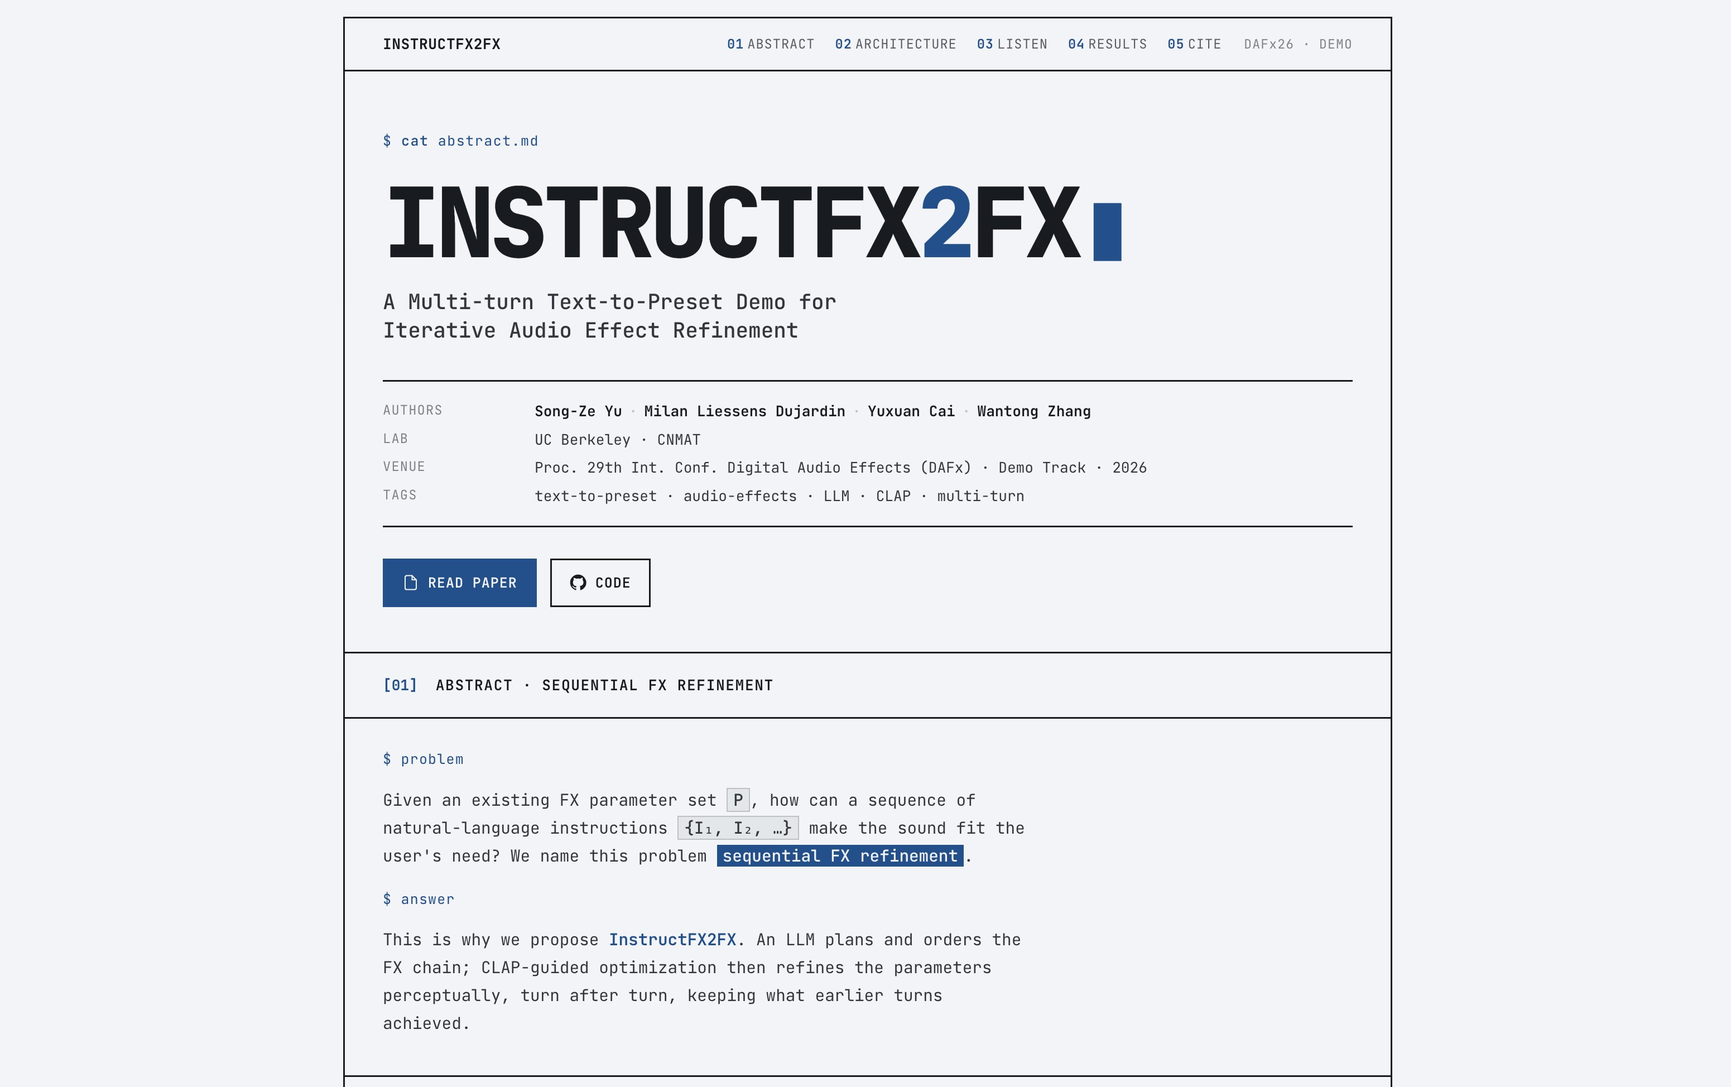
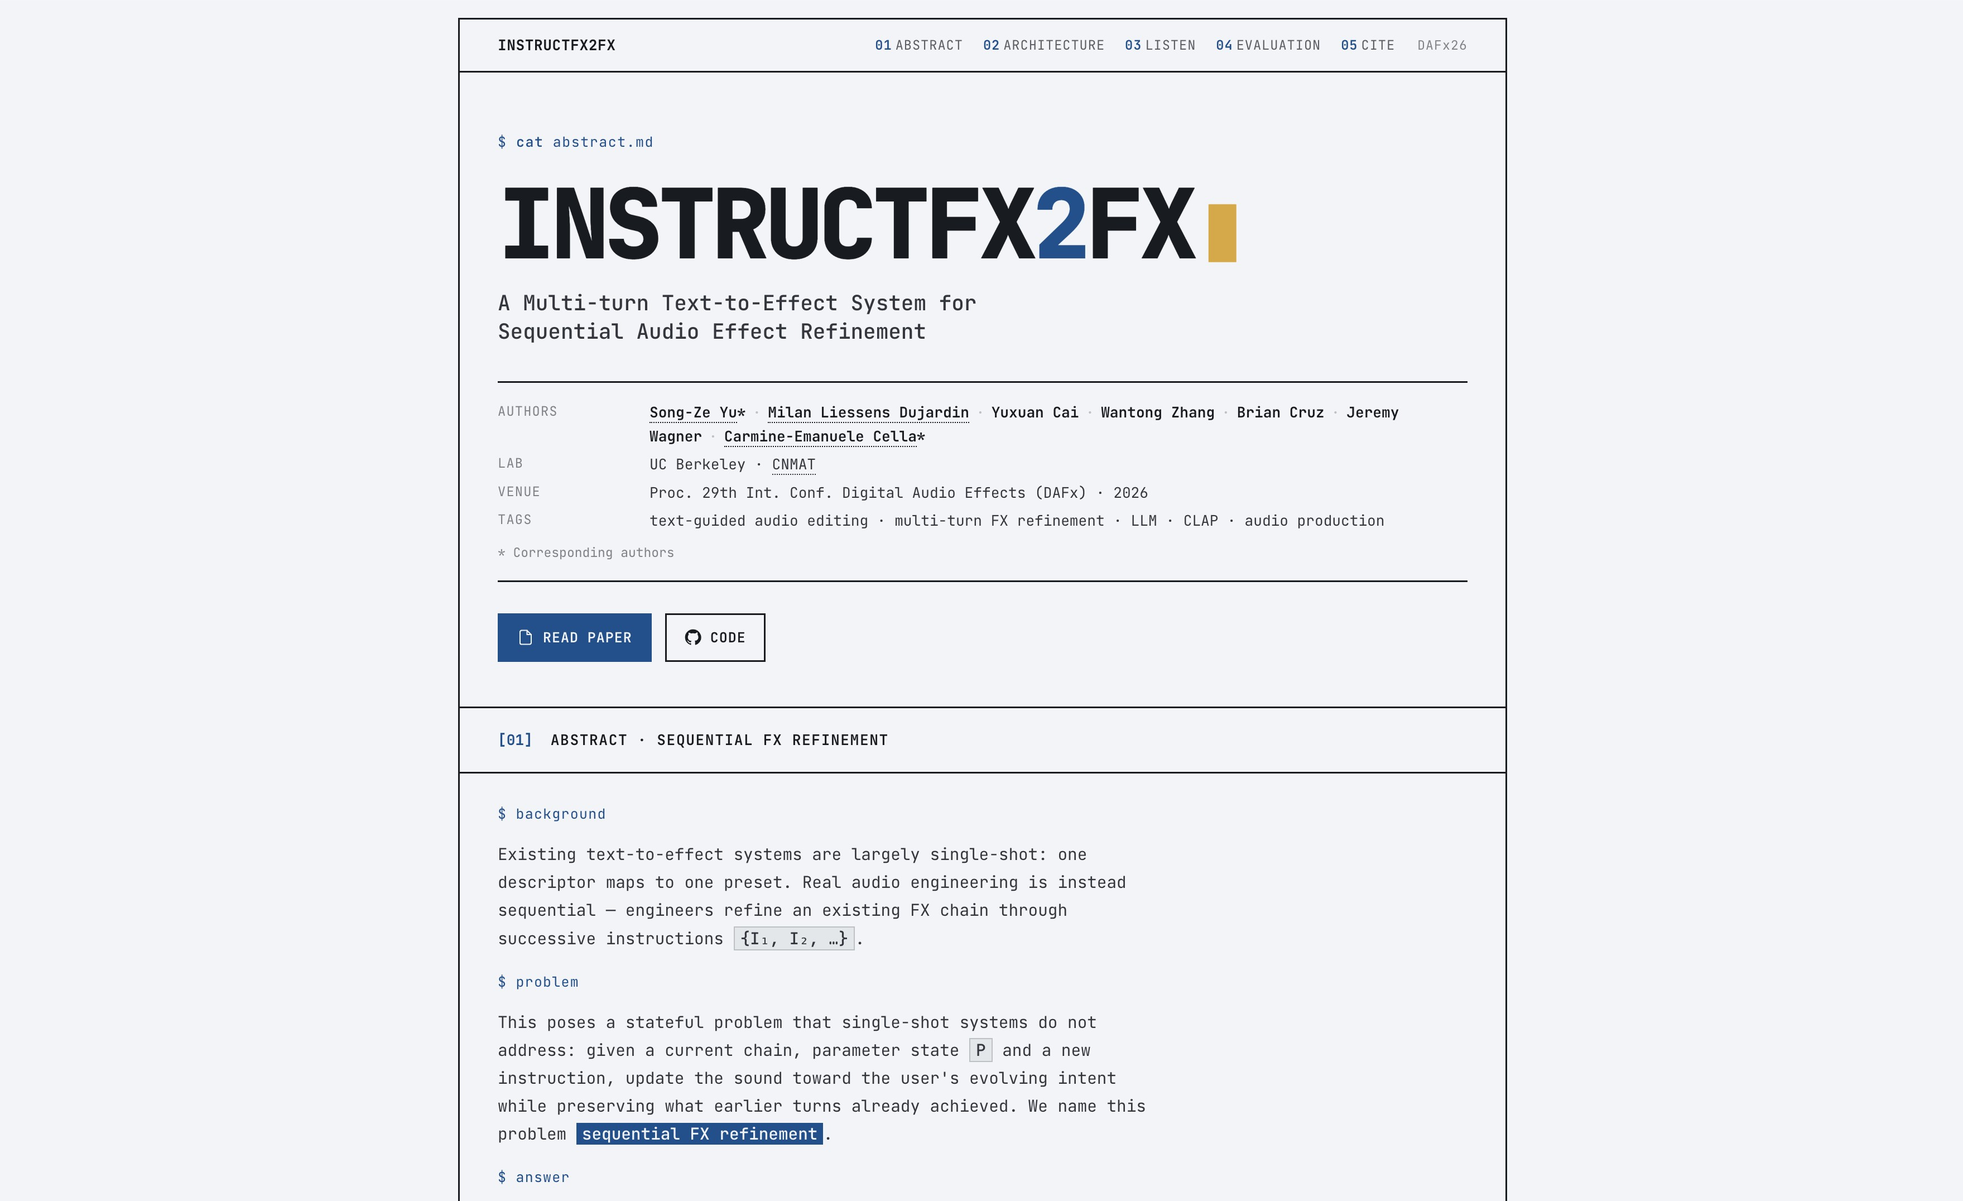
feat: camera-ready README

diff --git a/README.md b/README.md
@@ -2,24 +2,22 @@
 
 # InstructFX2FX
 
-### A Multi-Turn Text-to-Effect System for Sequential Audio Effect Refinement 
+### A Multi-Turn Text-to-Effect System for Sequential Audio Effect Refinement
 
 <span style="white-space:nowrap;">Song-Ze Yu</span>&nbsp;·
 <span style="white-space:nowrap;">Milan Liessens Dujardin</span>&nbsp;·
 <span style="white-space:nowrap;">Yuxuan Cai</span>&nbsp;·
-<span style="white-space:nowrap;">Wantong Zhang</span>&
-nbsp;·
-<span style="white-space:nowrap;">Brian Cruz</span>&
-nbsp;·
-<span style="white-space:nowrap;">Jeremy Wagner</span>&
-nbsp;·
+<span style="white-space:nowrap;">Wantong Zhang</span>&nbsp;·
+<span style="white-space:nowrap;">Brian Cruz</span>&nbsp;·
+<span style="white-space:nowrap;">Jeremy Wagner</span>&nbsp;·
 <span style="white-space:nowrap;">Carmine-Emanuele Cella</span>
 
 <sub>Center for New Music and Audio Technologies (CNMAT) · University of California, Berkeley</sub>
 
 <br/>
 
-[![arXiv](https://img.shields.io/badge/arXiv-2606.22005-b31b1b.svg?logo=arxiv&logoColor=white)](https://arxiv.org/abs/2606.22005v2)
+[![Paper PDF](https://img.shields.io/badge/Paper-camera--ready-red.svg)](presentation/demo/assets/camera-ready.pdf)
+[![arXiv](https://img.shields.io/badge/arXiv-2606.22005-b31b1b.svg?logo=arxiv&logoColor=white)](https://arxiv.org/abs/2606.22005)
 [![DAFx 2026](https://img.shields.io/badge/DAFx_2026-Demo_Track-success.svg)](https://dafx26.mit.edu/)
 [![Live demo](https://img.shields.io/badge/Live_demo-instructfx2fx.vaclis.net-0071e3.svg)](https://instructfx2fx.vaclis.net/)
 [![Python 3.10+](https://img.shields.io/badge/Python-3.10+-blue.svg)](https://www.python.org/)
@@ -28,87 +26,110 @@ nbsp;·
 
 <p align="center">
   <a href="https://instructfx2fx.vaclis.net/">
-    <img src="https://raw.githubusercontent.com/vaclisinc/InstructFX2FX/32e0b65052e5f163f245eeca8f989803416f3ce0/presentation/demo/assets/cover.jpg" alt="InstructFX2FX demo preview" width="100%">
+    <img src="presentation/demo/assets/cover.jpg" alt="InstructFX2FX demo preview" width="100%">
   </a>
 </p>
 
 ---
 
-> **TL;DR.** Real audio mixing is iterative — a sequence of small corrections, not one descriptor. **InstructFX2FX** treats this as *sequential FX refinement*: an LLM plans and decides the FX chain and proposes the initial parameter state, then CLAP-guided optimization refines it perceptually, turn after turn — gradient descent for differentiable effects (EQ, reverb) and Bayesian optimization for the rest. On SocialFX-derived descriptor pairs, CLAP-guided refinement achieves lower DSP-feature MMD than an LLM+LLM initialize-then-reprompt baseline on 9 of 10 pairs.
+> **TL;DR.** Audio effect design is iterative, not one-shot. **InstructFX2FX** treats text-guided audio processing as **sequential FX refinement**: each new natural-language instruction updates an existing effect chain and parameter state while preserving what previous turns already achieved. An LLM acts as the planner and initializer; CLAP-guided optimization acts as the listener that refines parameters through gradient descent for differentiable effects and Bayesian optimization for non-differentiable Pedalboard effects.
 
----
+## Highlights
+
+| | |
+|---|---|
+| **Problem** | Stateful, multi-turn text-to-effect editing instead of independent text-to-preset generation |
+| **Method** | LLM effect planning + LLM parameter initialization + CLAP-guided refinement over persistent session state |
+| **Routing** | Initialize-only, reuse-only, or mixed reuse-and-initialize depending on what the session already contains |
+| **Backends** | DASP gradient descent for EQ/reverb; Pedalboard Bayesian optimization for compressor, distortion, delay, pitch shift, and bitcrush |
+| **Demo** | Human-in-the-loop auditioning with dry/result A/B and optimization checkpoint scrubbing |
+| **Result** | Lower DSP-feature MMD than an LLM+LLM initialize-then-reprompt baseline on 9 of 10 SocialFX-derived descriptor pairs |
 
 ## Sequential FX Refinement
 
-We study the multi-turn setting we call **sequential FX refinement**:
+Single-shot text-to-effect systems map one prompt to one preset:
 
-> Given an existing FX parameter set **P** and a sequence of natural-language instructions **{I₁, I₂, …}**, update the effect parameters so the rendered audio tracks the user's evolving intent while preserving relevant structure from the previous state.
+```text
+P = g(x, I)
+```
 
-InstructFX2FX is a hybrid: an LLM plans and orders the FX chain and proposes initial parameters; CLAP-guided optimization then refines them perceptually, turn after turn — gradient descent for differentiable effects (EQ, reverb) and Bayesian optimization for the rest.
+InstructFX2FX instead models audio effect editing as a stateful update:
+
+```text
+(C_t, P_t) = f(x, C_{t-1}, P_{t-1}, I_t, H_{t-1})
+```
+
+where `x` is the dry audio, `C_t` is the current effect chain, `P_t` is the current parameter state, `I_t` is the latest instruction, and `H_{t-1}` is the prior instruction history. Each turn should move the rendered audio toward the new target while keeping useful structure from earlier turns.
 
 ## Architecture
 
-3-layer pipeline orchestrated by `src/pipeline/orchestrator.py`:
+The 3-layer pipeline is orchestrated by [`src/pipeline/orchestrator.py`](src/pipeline/orchestrator.py):
 
+```text
+Instruction + dry audio + session state
+        |
+        v
++-------------------------------+
+| Layer 1: FX Selector Agent    |  OpenRouter tool-calling LLM
+| src/agents/fx_selector.py     |  -> ordered FX chain
++---------------+---------------+
+                |
+                v
++-------------------------------+
+| Layer 2: Parser / Router      |  initialize, reuse, or mixed routing
+| src/agents/parser.py          |  -> assembled params
++---------------+---------------+
+                |
+      +---------+---------+
+      v                   v
++------------+      +----------------+
+| Layer 3A   |      | Layer 3B       |
+| DASP GD    | ---> | Pedalboard BO  |
+| eq, rev    |audio | comp/dist/etc. |
++------------+      +----------------+
 ```
-Instruction ("make it brighter")  +  session state (P, history)
-        │
-        ▼
-┌──────────────────────────────┐
-│  Layer 1: FX Selector Agent  │  GPT-4o via OpenRouter tool-calling
-│  src/agents/fx_selector.py   │  → ordered FX chain ["eq", "rev"]
-└──────────────┬───────────────┘
-               │
-               ▼
-┌──────────────────────────────┐
-│  Layer 2: Parser / Router    │  routes the update (3 modes, below)
-│  src/agents/parser.py        │  LLM-init missing params, then optimize
-└──────────────┬───────────────┘
-               │
-     ┌─────────┴─────────┐
-     ▼                   ▼
-┌──────────┐      ┌──────────────┐
-│ Layer 3A │      │  Layer 3B    │
-│ DASP GD  │      │ Pedalboard   │
-│ (eq,rev) │─────▶│ Bayesian BO  │
-│ trainer  │audio │ fxsearcher   │
-└──────────┘      └──────────────┘
-```
 
-**Layer 1 — FX Selector Agent**: Each available FX is an OpenAI tool. The LLM calls them in signal-chain order.
+**Layer 1 - FX Selector Agent:** each supported effect is exposed as a callable tool. The LLM selects new effects in signal-chain order and avoids reselecting effects already present in the session.
 
-**Layer 2 — Parser / Router**: Each instruction takes one of three modes, based on session state:
+**Layer 2 - Parser / Router:** the router compares the requested chain against the current session state:
 
 | Mode | Session state | Action |
 |------|---------------|--------|
-| **Initialize** | no FX exist yet | LLM-initialize a fresh chain (no optimization this turn) |
-| **Extend** | some FX exist | LLM-initialize the new effects, merge with existing, then optimize all |
-| **Reuse & optimize** | all FX already exist | re-optimize from the existing params, in place |
+| **Initialize-only** | none of the requested FX exist | LLM-initialize a fresh chain and render it once |
+| **Reuse-only** | all requested FX already exist | refine existing parameters in place |
+| **Mixed** | some requested FX exist, some are new | initialize missing effects, merge with existing params, then refine the chain |
 
-**Layer 3 — Dual-track optimization** (sequential):
-- 3A: DASP effects (`eq`, `rev`) → CLAP gradient descent via `move_in_CLAP()`
-- 3B: Pedalboard effects (`comp`, `dist`, `delay`, `pitchshift`, `bitcrush`) → Bayesian BO via `fxsearcher()`
-- DASP output audio feeds as input to the Pedalboard stage
+**Layer 3 - CLAP-guided optimization:** DASP effects are optimized first, and their rendered audio feeds the Pedalboard stage. The optimization layer supports semantic similarity, directional, and guided semantic losses.
 
-**Session** (`src/session/session.py`): Accumulates params across instructions for multi-turn interaction. This persistent state is what makes refinement iterative.
+**Session state:** [`src/session/session.py`](src/session/session.py) stores the current parameters and prompt history so every turn is interpreted relative to the current sound.
 
 ## Available Effects
 
-| Canonical Name | Backend | Optimization | Params |
-|---------------|---------|-------------|--------|
-| `eq` | DASP | Gradient Descent | 18 (6-band parametric EQ) |
-| `rev` | DASP | Gradient Descent | 25 (noise-shaped reverb) |
-| `comp` | Pedalboard | Bayesian BO | Compressor |
-| `dist` | Pedalboard | Bayesian BO | Distortion |
-| `delay` | Pedalboard | Bayesian BO | Delay |
-| `pitchshift` | Pedalboard | Bayesian BO | Pitch Shift |
-| `bitcrush` | Pedalboard | Bayesian BO | Bitcrusher |
+| Canonical name | Backend | Optimization | Notes |
+|---------------|---------|--------------|-------|
+| `eq` | DASP | Gradient descent | 6-band parametric EQ |
+| `rev` | DASP | Gradient descent | Noise-shaped reverb |
+| `comp` | Pedalboard | Bayesian optimization | Compressor |
+| `dist` | Pedalboard | Bayesian optimization | Distortion |
+| `delay` | Pedalboard | Bayesian optimization | Delay |
+| `pitchshift` | Pedalboard | Bayesian optimization | Pitch shift |
+| `bitcrush` | Pedalboard | Bayesian optimization | Bitcrusher |
 
-## Results
+## Evaluation Summary
 
-CLAP-guided refinement lowers target-directed MMD on **9 of 10** directed descriptor pairs versus an LLM-only re-prompting baseline (0.45 → 0.34, a 24% reduction). Listen to the gradient-descent sessions, scrub the optimization trajectories, and A/B dry vs. result on the [live demo](https://instructfx2fx.vaclis.net/).
+The camera-ready paper reports a preliminary evaluation on SocialFX-derived EQ descriptors.
+
+| Experiment | Setup | Result |
+|------------|-------|--------|
+| **Exp. 1: Sequential MMD** | 10 descriptor transitions such as `warm -> bright` and `harsh -> soft`; piano and violin audio; MMD over 35-dimensional DSP features | InstructFX2FX improves over the LLM+LLM initialize-then-reprompt baseline on 9 of 10 pairs |
+| **Exp. 2: MMD trajectory** | Tracks MMD to the previous descriptor and the new target during gradient descent | In 9 of 10 descriptor pairs, optimization moves toward the new target without increasing MMD to the previous descriptor |
+| **Exp. 3: LLM initialization ablation** | Starts from stochastic LLM initializations, then refines toward the same descriptor | DSP-feature MMD improves from 0.752 to 0.674; Fx-Encoder++ MMD improves from 0.752 to 0.643; 7 of 8 words improve |
+
+The live demo includes trajectory plots and audio checkpoints so the user can hear gradual parameter movement, not just the final output.
 
 ## Installation
+
+Use the repo-local virtual environment:
 
 ```bash
 python -m venv .venv
@@ -118,104 +139,137 @@ pip install -r requirements.txt
 
 Create a `.env` file in the project root:
 
-```
+```env
 OPENROUTER_API_KEY=your_api_key
 ```
 
+CLAP weights are downloaded on first use.
+
 ## Quick Start
 
-Run the multi-turn pipeline end-to-end on the bundled audio (`dry_audio/piano/piano.wav`). Set `OPENROUTER_API_KEY` in `.env` first; CLAP weights auto-download on first run:
+Run the multi-turn integration script on bundled dry audio:
 
 ```bash
+source .venv/bin/activate
 python tests/test_pipeline.py
 ```
 
-It drives a few multi-turn instruction sequences through the orchestrator and writes the rendered audio and parameters for each turn to `tests/outputs/`.
+The script drives realistic multi-turn sessions through the orchestrator and writes rendered audio plus parameter JSON to `tests/outputs/`.
 
-The core API is one call per instruction, with `Session` carrying state across turns:
+The core Python API is one call per instruction, with `Session` carrying state across turns:
 
 ```python
+from embeddings.clap import CLAPWrapper
+from llms.llmclient import LLMClient
+from pipeline.orchestrator import Orchestrator
+from session.session import Session
+
+llm = LLMClient()
+clap = CLAPWrapper(device="cpu")
 orch = Orchestrator(llm, clap, device="cpu")
-session = Session(available_fx=["eq", "comp", "rev", "dist"])
+session = Session(available_fx=["eq", "comp", "rev", "dist", "delay", "pitchshift", "bitcrush"])
 
-orch.run("bright", session, audio)        # turn 1
-orch.run("add warmth", session, audio)    # turn 2 — Session remembers turn 1
+result_1 = orch.run("bright", session, audio)
+result_2 = orch.run("add warmth", session, audio)
 ```
 
-See [`tests/test_pipeline.py`](tests/test_pipeline.py) for the full runnable example (audio loading and model setup).
-
-## Project Structure
-
-```
-src/
-├── agents/
-│   ├── fx_selector.py      # Layer 1: LLM FX selection via tool calls
-│   └── parser.py            # Layer 2: session routing + optimization dispatch
-├── configurations/
-│   └── config.py            # Config dataclass, enums (LossFunction, OptimizationMethod)
-├── effects/
-│   └── fx.py                # Effect adapters, FXChainFactory, param ranges
-├── embeddings/
-│   └── clap.py              # CLAP wrapper (audio/text embeddings)
-├── FxSearcher/
-│   └── fxsearcher.py        # Bayesian optimization for Pedalboard FX
-├── llms/
-│   └── llmclient.py         # OpenRouter GPT-4o client
-├── metrics/                 # Audio quality and CLAP similarity metrics
-├── pipeline/
-│   └── orchestrator.py      # Main entry point
-├── prompts/
-│   ├── prompt.py            # PromptFactory for DASP/Pedalboard init prompts
-│   └── instruction.py       # Instruction templates
-├── session/
-│   └── session.py           # Session state management
-├── training/
-│   ├── trainer.py           # move_in_CLAP() — gradient descent in CLAP space
-│   ├── loss.py              # Loss functions (directional, semantic similarity, guided)
-│   └── parameterengine.py   # Parameter tensor ↔ dict conversion
-├── utilities/
-│   ├── audio_processing.py
-│   ├── fx_processing.py     # fx_initial_params_to_tensor, fx_tensor_to_params_dict
-│   └── text_processing.py   # JSON extraction from LLM output
-└── visualization/
-    └── plotting.py
-dry_audio/                   # Test audio files (piano, violin, oboe)
-```
+See [`tests/test_pipeline.py`](tests/test_pipeline.py) for a complete runnable example with audio loading, model setup, output validation, and file export.
 
 ## Demo
 
-**Live site** ([instructfx2fx.vaclis.net](https://instructfx2fx.vaclis.net/)) — a static page with the waveform players, dry/result A/B, and gradient-descent trajectory scrubbing. Source lives in `presentation/demo/` (plain HTML/CSS/JS, no build step):
+**Live paper demo:** [`instructfx2fx.vaclis.net`](https://instructfx2fx.vaclis.net/) hosts the DAFx26 demo page with three gradient-descent sessions:
+
+- `A fading dream`
+- `From the chapel to the cosmos`
+- `Underwater`
+
+Each session supports dry/result A/B playback and checkpoint scrubbing across saved optimization snapshots. The static demo source lives in [`presentation/demo/`](presentation/demo/) and has no build step:
 
 ```bash
 cd presentation/demo
-python -m http.server          # then open http://localhost:8000
+python -m http.server
 ```
 
-**Interactive app** — separate React frontend + FastAPI backend:
+Then open `http://localhost:8000`.
+
+**Interactive app prototype:** the repo also includes a React frontend and FastAPI backend for running sessions locally:
 
 ```bash
-# frontend
-cd apps/web_frontend && npm run dev
-
 # backend
 source .venv/bin/activate
 uvicorn apps.web_api.app.main:app --reload
+
+# frontend
+cd apps/web_frontend
+npm install
+npm run dev
 ```
+
+The API exposes sessions, audio uploads, run submission, run polling, FX metadata, and checkpoint selection.
+
+## Project Structure
+
+```text
+src/
+├── agents/
+│   ├── fx_selector.py      # Layer 1: LLM FX selection via tool calls
+│   └── parser.py           # Layer 2: session routing + optimization dispatch
+├── configurations/
+│   └── config.py           # Config dataclass and enums
+├── effects/
+│   └── fx.py               # Effect adapters, FXChainFactory, parameter ranges
+├── embeddings/
+│   └── clap.py             # CLAP audio/text embedding wrapper
+├── FxSearcher/
+│   └── fxsearcher.py       # Bayesian optimization for Pedalboard FX
+├── llms/
+│   └── llmclient.py        # OpenRouter client
+├── metrics/                # DSP, CLAP, deep embedding, and MMD metrics
+├── pipeline/
+│   └── orchestrator.py     # Main entry point: Orchestrator.run()
+├── prompts/
+│   ├── prompt.py           # PromptFactory for DASP/Pedalboard initialization
+│   └── instruction.py      # Instruction templates
+├── runners/
+│   └── runners.py          # Experiment/demo runners
+├── session/
+│   └── session.py          # Persistent session state
+├── training/
+│   ├── trainer.py          # move_in_CLAP()
+│   ├── loss.py             # Semantic, directional, and guided losses
+│   └── parameterengine.py  # Parameter normalization utilities
+├── utilities/
+│   ├── audio_processing.py
+│   ├── fx_processing.py
+│   └── text_processing.py
+└── visualization/
+    └── plotting.py
+
+apps/
+├── web_api/                # FastAPI local app backend
+└── web_frontend/           # React/Vite local app frontend
+
+presentation/demo/          # Static DAFx26 paper demo and assets
+dry_audio/                  # Test audio files
+tests/                      # End-to-end pipeline test script and outputs
+```
+
+Imports use bare module names such as `from pipeline.orchestrator import Orchestrator` because `src/` is added to `sys.path`.
 
 ## Citation
 
 ```bibtex
 @misc{yu2026instructfx2fxmultiturntexttopresetdemo,
-      title={InstructFX2FX: A Multi-Turn Text-to-Effect System for Sequential Audio Effect Refinement},
-      author={Song-Ze Yu and Milan Liessens Dujardin and Yuxuan Cai and Wantong Zhang},
-      year={2026},
-      eprint={2606.22005},
-      archivePrefix={arXiv},
-      primaryClass={cs.SD},
-      url={https://arxiv.org/abs/2606.22005},
+  title = {InstructFX2FX: A Multi-Turn Text-to-Effect System for Sequential Audio Effect Refinement},
+  author = {Yu, Song-Ze and Liessens Dujardin, Milan and Cai, Yuxuan and Zhang, Wantong and Cruz, Brian and Wagner, Jeremy and Cella, Carmine-Emanuele},
+  year = {2026},
+  eprint={2606.22005},
+  archivePrefix={arXiv},
+  primaryClass={cs.SD},
+  url={https://arxiv.org/abs/2606.22005},
 }
 ```
 
 ## Acknowledgements
 
-InstructFX2FX builds on [LAION-CLAP](https://github.com/LAION-AI/CLAP) for audio–text embeddings, [`dasp`](https://github.com/csteinmetz1/dasp-pytorch) for differentiable audio effects, and [Pedalboard](https://github.com/spotify/pedalboard) for non-differentiable plugins. Our CLAP-guided objectives follow prior text-guided FX work — [Text2FX](https://arxiv.org/abs/2409.18847) and [FxSearcher](https://arxiv.org/abs/2511.14138) — and the LLM-initialization idea follows [LLM2Fx](https://arxiv.org/abs/2505.20770). Descriptor data is drawn from [SocialFX](https://dl.acm.org/doi/10.1145/2964284.2967207).
+InstructFX2FX builds on [LAION-CLAP](https://github.com/LAION-AI/CLAP) for audio-text embeddings, [`dasp`](https://github.com/csteinmetz1/dasp-pytorch) for differentiable audio effects, and [Pedalboard](https://github.com/spotify/pedalboard) for non-differentiable plugins. Its CLAP-guided objectives follow prior text-guided FX work including [Text2FX](https://arxiv.org/abs/2409.18847) and [FxSearcher](https://arxiv.org/abs/2511.14138), and its LLM initialization follows [LLM2Fx](https://arxiv.org/abs/2505.20770). Descriptor data is drawn from [SocialFX](https://dl.acm.org/doi/10.1145/2964284.2967207).
